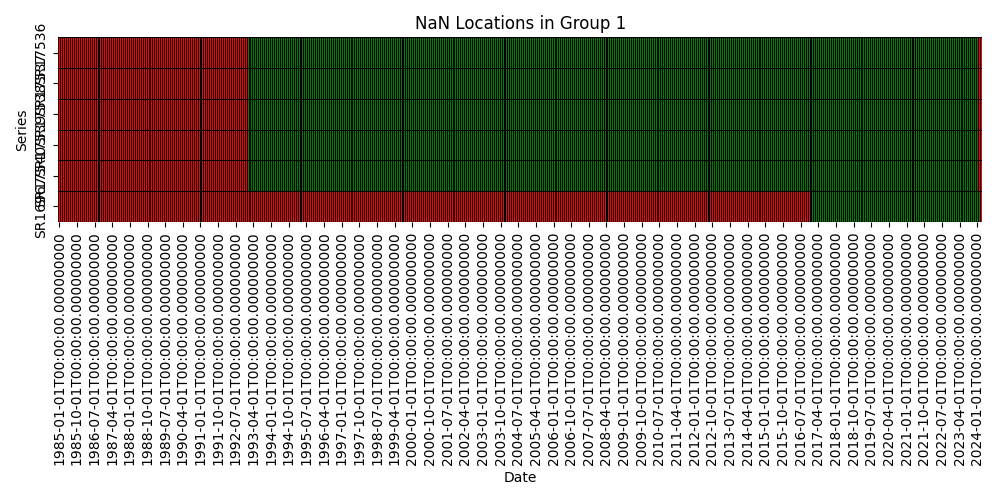
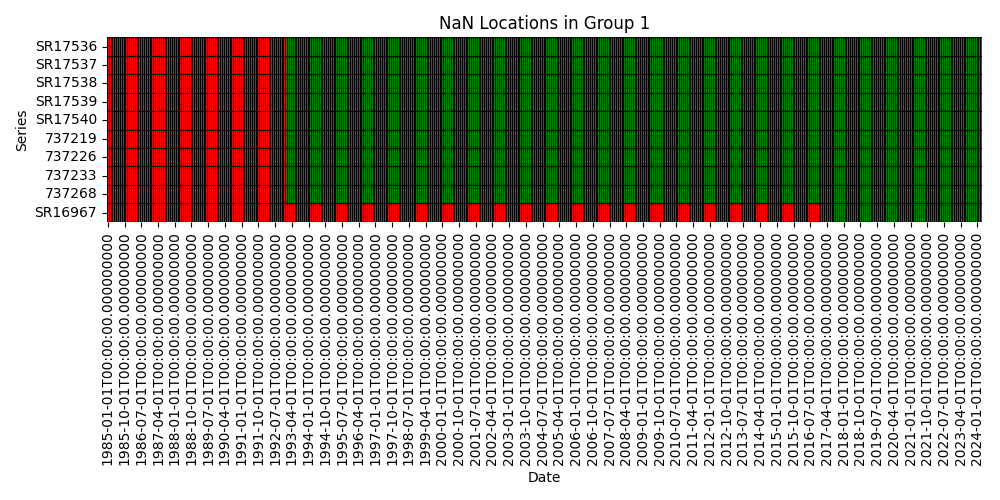
add qd

diff --git a/src/test.py b/src/test.py
@@ -28,12 +28,12 @@ def plot_nan_locations(df_group, group_name):
     plt.tight_layout()
     plt.show()
 
-df_1 = df[['SR17536','SR17537','SR17538','SR17539','SR17540','SR16967']]
+df_1 = df[['SR17536','SR17537','SR17538','SR17539','SR17540','737219','737226','737233','737268','SR16967']]
 df_2 = df[['444884','SL136','SL137','SL138','SL11136','SL11137','SL11138','SL11139','SL2829','SL2830','SL5113','SL5114','SL11298','SL11295','SL11439','SL11453','SL11432','SL11426']]
 df_4 = df[['SR17449','SR17450','SR17451','SR17452','SR17453','SR16882','SR16894','SR16906','SR16918','SR2761','SR2768','SR2775','SR2782']]
 df_5 = df[['SF311408','SF311418','SF311433','SF311438','SF29652','SF235719','SF235716']]
 df_6 = df[['SF61745','SF282','SF3338','SF3270','SF3367','SF17990','SF18608','SF30057','SF57805','SF57771','SF57923','SF229267','SR28']]
-df_7 = df[['SP12754','SP12755','SP12753','SP1','SP74625','SP74626','SP66540','SP74627','SP74628','SP66542','SP56339','SP74629','SP74630','SP56337','SP56385','SP56386','SP74631','SP56373','SP74640']]
+df_7 = df[['SP12754','SP12755','SP12753','673095','673096','673097','673098','673099','673100','SP1','SP74625','SP74626','SP66540','SP74627','SP74628','SP66542','SP56339','SP74629','SP74630','SP56337','SP56385','SP56386','SP74631','SP56373','SP74640']]
 df_8 = df[['SF117754','SF4782','SF4774','SF4801']]
 
 
@@ -67,7 +67,6 @@ for column in df.columns:
     # Count NaNs in the column
     na_count = df[column].isna().sum()
 
-    http://www.investmentscience.com/Content/howtoArticles/MLE_for_OR_mean_reverting.pdf
     
     plt.figure(figsize=(10, 6))
     plt.plot(df.index, df[column])

diff --git a/src/main.py b/src/main.py
@@ -2,7 +2,7 @@ import pandas as pd
 
 from extract import extract
 from utils import read_yaml
-from df_utils import order, save, stationarize_df, slice_df_from_date, remove_outliers, apply_transformations, set_date_index, filter_dates_with_day_01
+from df_utils import order, save, stationarize_df, slice_df_from_date, remove_outliers, apply_transformations, set_date_index, filter_dates_with_day_01, create_quarterly_data
 
 if __name__ == "__main__":
 
@@ -12,14 +12,14 @@ if __name__ == "__main__":
     df = (
         extract(series) # Extract the data from the data source API
         .pipe(order) # Order the rows by date
-        .pipe(save) # Save raw csv
-        .pipe(set_date_index) # Turn the date column into the index of the df
+        .pipe(save, index=True) # Save raw csv
         .pipe(filter_dates_with_day_01)
         .pipe(slice_df_from_date, start_date='1985-01-01') # Get only data starting in 2000
         #.pipe(stationarize_df, ['SP74663', 'SF4782']) #Stationarize selected columns
         #.pipe(remove_outliers, ['SP74663', 'SF4782']) # Remove outliers
         #.pipe(apply_transformations) 
-        .pipe(save, prefix='sliced_', index=True)
+        .pipe(save, prefix='MD_', index=True)
+        .pipe(create_quarterly_data)
+        .pipe(save, prefix='QD_', index=True)
+
     )
-
-

diff --git a/src/df_utils.py b/src/df_utils.py
@@ -22,9 +22,9 @@ def order(df):
 
     #Sort the df by date
     df.sort_values(by=['fecha'], inplace=True)
+    df.set_index('fecha', inplace=True)
 
-    #Change back to string to preserve the raw data format
-    df['fecha'] = df['fecha'].dt.strftime('%d/%m/%Y')
+    df = df.apply(pd.to_numeric, errors='coerce')
         
     return df
 
@@ -175,3 +175,13 @@ def apply_transformations(df):
         df_transformed[serie] = df_transformed[serie].apply(lambda x: transformation(info['transformation'], x))
     
     return df_transformed
+
+def create_quarterly_data(df):
+
+    # Resample the DataFrame to quarterly frequency
+    quarterly_df = df.resample('QS').mean()  # You can use other methods like sum(), median(), etc. instead of mean() if needed
+    
+    # Forward fill missing values if any
+    quarterly_df = quarterly_df.ffill()
+
+    return quarterly_df
